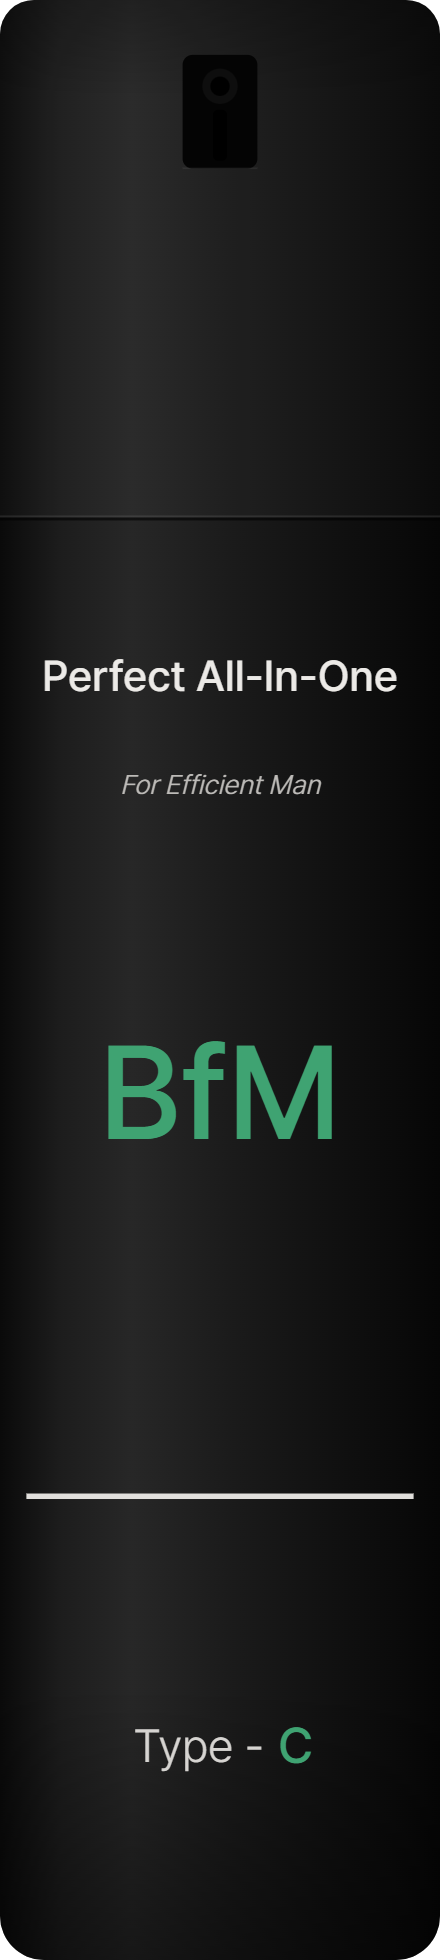
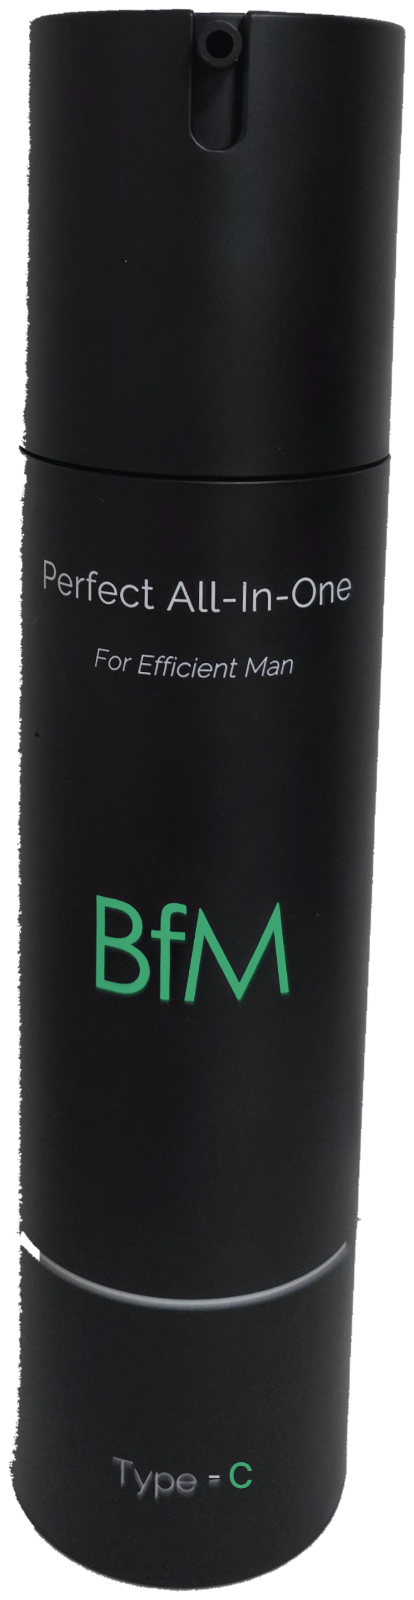
실사진 케이스 최종본 + v2 애플식 대청소
케이스 이미지:
- 대표가 저장해준 3000x4000 정면 실물 사진에서 고해상 누끼(414x1600)
- 벽 그림자·바닥 접촉 그림자 위치별 임계값으로 분리, 기울기 -1.16° 보정
- 타입별 베이크: BfM 로고 타입색 틴트 + 'Type - A/B/C' 병에 직접
- 렌더 버전 → 실사진 버전으로 전면 교체

v2 대청소 (AI 티 제거 — 위계는 박스가 아니라 타이포로):
- 장식 전부 제거: 오로라·스캔라인·광택 칩·이모지 뱃지·중복 헤드라인
- 히어로 = 거대 타입명(포인트색 유일 사용처) + 태그 한 줄 + 스펙 숫자 3개(막대·도넛 없음)
- 성분·처방·보증 섹션 디박스: 카드/테두리/뱃지 제거 → 구분선 리스트
- 처방번호 칩·신뢰도 뱃지 숨김, 모서리 반경 통일
- 인트로 밑줄 장식 제거
- JS가 참조하는 노드는 전부 DOM 유지(display만 제어) — 로직 무손상

🤖 Generated with Claude Code

diff --git a/result-bw.html b/result-bw.html
@@ -173,6 +173,36 @@
 @keyframes shd{0%{transform:scaleY(.2);transform-origin:top;opacity:0}30%{transform:scaleY(1);opacity:1}100%{transform:scaleY(1);opacity:0}}
 #bfm-result .prod .was{font-size:15px;color:var(--faint);text-decoration:line-through;margin-right:8px}
 @media (prefers-reduced-motion:reduce){#bfm-result .aur,#bfm-result .shint span{animation:none}}
+/* ══ v2 애플식 대청소 — 장식 제거, 위계는 타이포로 (뒤에 선언해 앞 규칙을 덮음) ══ */
+#bfm-result .aur,#bfm-result .scanline,#bfm-result .shint{display:none!important}
+#bfm-result .et{display:none}/* .fno 노드는 JS가 쓰므로 DOM엔 유지 */
+#bfm-result .hero{padding:64px 0 6px;background:none}
+#bfm-result .persona{background:none;border:0;box-shadow:none;padding:0;max-width:none;margin-top:0}
+#bfm-result .pc-en{display:none}
+#bfm-result .pc-ko{font-size:clamp(56px,16vw,84px);letter-spacing:-.045em;color:var(--accent)}
+#bfm-result .pc-tag{font-size:15px;margin-top:12px;color:var(--mut)}
+#bfm-result .pc-fno{display:none}
+#bfm-result .hero h1{display:none}
+#bfm-result .hstats{background:none;border:0;backdrop-filter:none;flex-direction:row;justify-content:center;gap:38px;max-width:none;margin-top:30px;padding:0}
+#bfm-result .hs{display:flex;flex-direction:column-reverse;align-items:center;gap:5px}
+#bfm-result .hb{display:none}
+#bfm-result .hv{font-size:33px;font-weight:500;letter-spacing:-.02em}
+#bfm-result .hl{font-size:11px;color:var(--faint);letter-spacing:.08em}
+#bfm-result .pstage{padding:34px 0 20px}
+#bfm-result .pcap{display:none}/* 케이스가 스스로 말함 */
+#bfm-result .ig{background:none;border:0;border-top:1px solid var(--line);border-radius:0;padding:20px 2px}
+#bfm-result .iglist{gap:0;margin-top:16px}
+#bfm-result .igef{display:none}
+#bfm-result .iglvl{display:none}
+#bfm-result .fn{display:none}
+#bfm-result .fi{background:none;border:0;border-top:1px solid var(--line);border-radius:0;padding:18px 2px}
+#bfm-result .f3{gap:0;margin-top:16px}
+#bfm-result .prod{background:none;border:0;padding:0;margin-top:24px}
+#bfm-result .guar{background:none;border:0;padding:22px 0 0;text-align:left}
+#bfm-result .badge{display:none}
+#bfm-result .triad span,#bfm-result .trust span{border:0;padding:0;color:var(--faint);font-size:12px}
+#bfm-result .order{border-radius:12px}
+#bfm-result .pilldesc{background:none}
 </style>
 
   <!-- HERO -->

diff --git a/diagnose-bw.html b/diagnose-bw.html
@@ -141,7 +141,7 @@ canvas#work{display:none}
     <div class="grow i2">
       <div class="i2brand">B<i>f</i>M</div>
       <p class="i2eyebrow">AI Skin Analysis</p>
-      <h1 class="i2title">피부 타입,<br>감이 아니라 <u>측정</u>으로.</h1>
+      <h1 class="i2title">피부 타입,<br>감이 아니라 측정으로.</h1>
       <p class="i2sub">T존 · 볼 · 코 3부위를 카메라로 읽고<br>8문항으로 확정합니다 — 약 1분</p>
       <img class="i2bottle" src="img/bfm-case-neutral.png" alt="BfM Perfect All-In-One">
       <div class="i2priv">사진은 기기 안에서만 분석 · 서버 전송·저장 없음</div>
